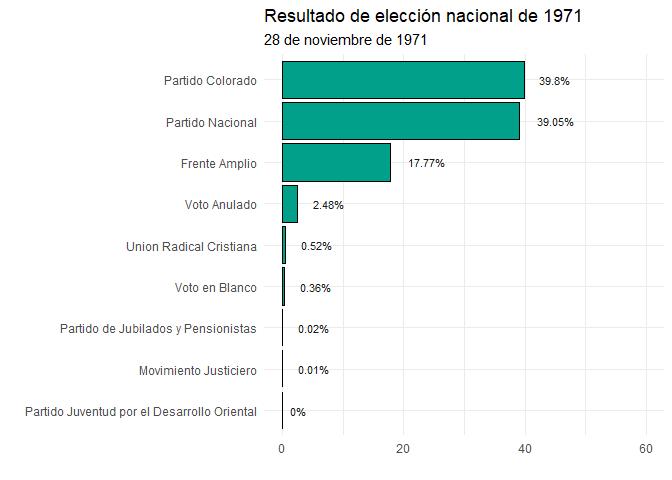
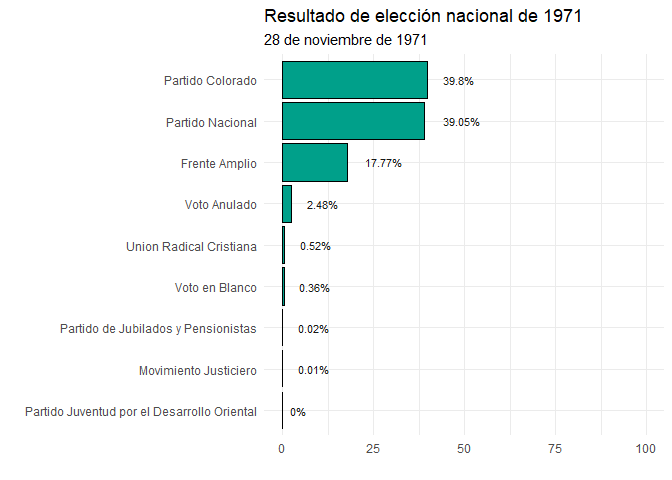
readme_graf

diff --git a/README.md b/README.md
@@ -33,7 +33,7 @@ elec71 <- resultado_elecciones_uy(anio = 1971, tipo = 'Presidencial', por_depart
 
 ggplot(data = elec71 , aes(x = reorder(Partido, Porcentaje), y = Porcentaje)) +
     geom_bar(stat = "identity", position = "stack", fill = "#00A08A", color = "black") +
-    ylim(0,60) +
+    ylim(0,100) +
     coord_flip() +
     geom_text(aes(label = paste0(Porcentaje, "%")), hjust = -0.5, color = "gray9", size = 3) +
     labs(x = "", y = "",
@@ -42,23 +42,26 @@ ggplot(data = elec71 , aes(x = reorder(Partido, Porcentaje), y = Porcentaje)) +
     theme_minimal()
 ```
 
-<img src="man/figures/README-unnamed-chunk-2-1.png" width="80%" />
+<img src="man/figures/README-unnamed-chunk-2-1.png" width="60%" />
 
 ``` r
 elec71 <- resultado_elecciones_uy(1971, 'Presidencial', por_departamento = TRUE) 
 
 ggplot(data = elec71 , aes(x = reorder(Sigla, Porcentaje), y = Porcentaje)) +
     geom_bar(stat="identity", position = "stack", fill = "#00A08A", color = "black") +
-    ylim(0,60) +
+    ylim(0,100) +
     coord_flip() +
-    geom_text(aes(label = paste0(Porcentaje, "%")), hjust = -0.5, color = "gray9", size = 3) +
+    geom_text(aes(label = paste0(Porcentaje, "%")), hjust = -0.5, color = "gray9", size = 2) +
     labs(x = "", y = "",
          title = "Resultado de elección nacional de 1971",
          subtitle = "28 de noviembre de 1971") +
-    theme_minimal() + facet_wrap(~Departamento)
+    theme_minimal() + 
+    theme(axis.text.x = element_text(size = 6),
+          axis.text.y = element_text(size = 6)) +
+    facet_wrap(~Departamento)
 ```
 
-<img src="man/figures/README-unnamed-chunk-3-1.png" width="80%" />
+<img src="man/figures/README-unnamed-chunk-3-1.png" width="100%" height="100%" />
 
 ## Parlamento
 
@@ -82,4 +85,4 @@ ggplot(diputados, aes(x, y, colour = party_long)) +
                         limits = diputados$party_long)
 ```
 
-<img src="man/figures/README-unnamed-chunk-4-1.png" width="80%" />
+<img src="man/figures/README-unnamed-chunk-4-1.png" width="60%" />
